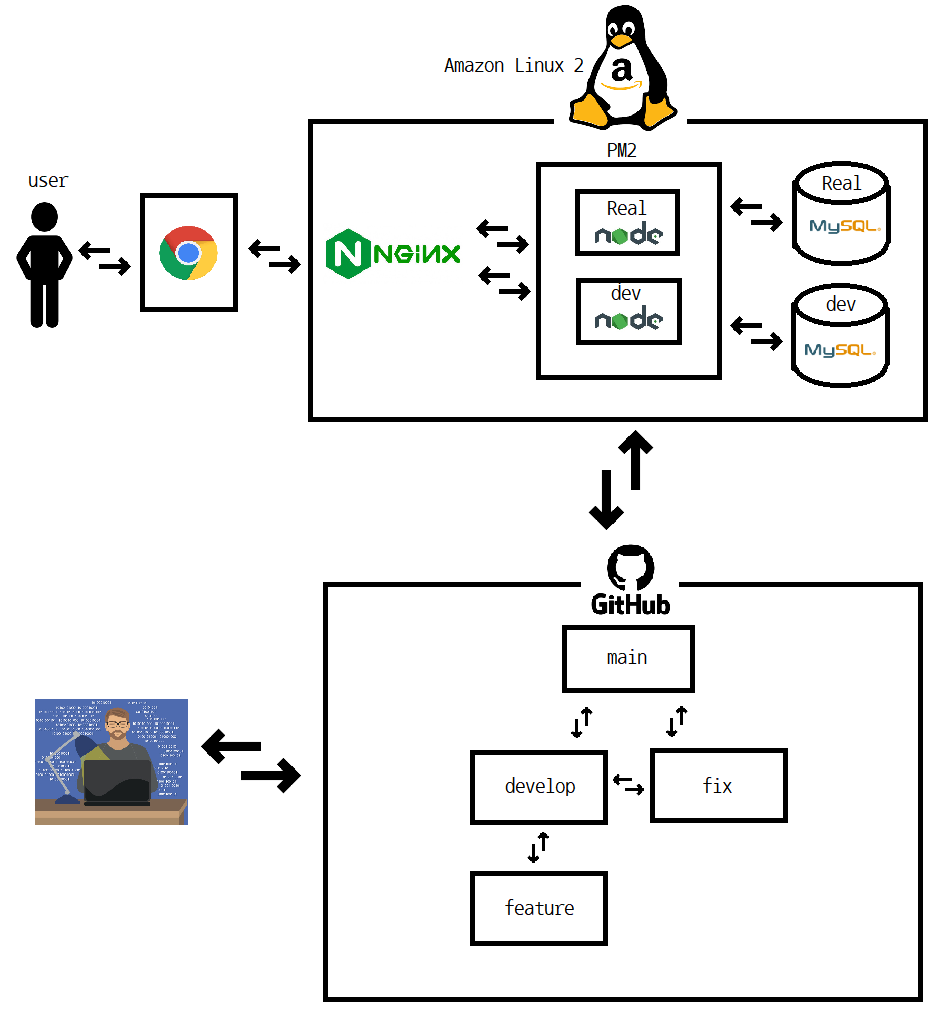
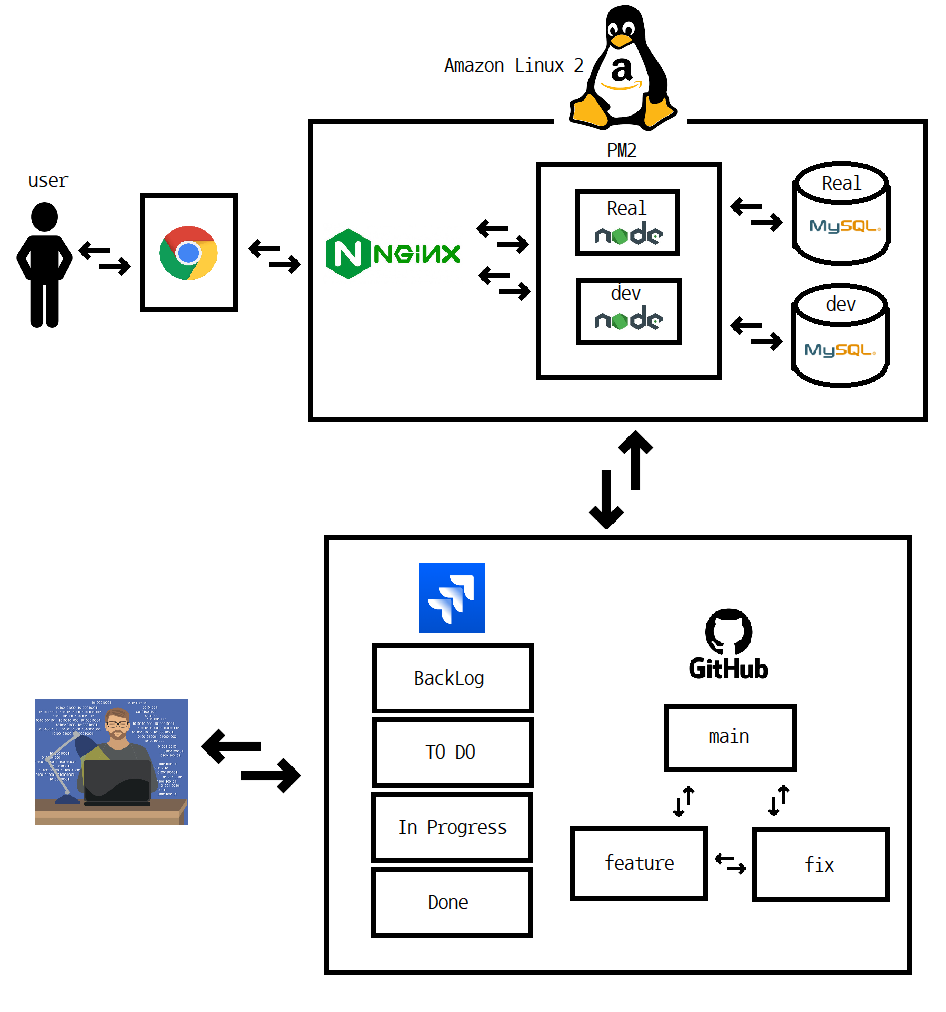
SM-14 Jira와 Github 연동
v2.5.5(23.02.02)

프로젝트를 관리하면서 이슈관리에 어려움을 느낌.

이에 Jira를 도입하여 이슈관리를 하려고 함.

이 프로젝트를 관리하는 도구는 다음과 같음

1. 이슈관리: Jira
2. 버전관리: GitHub Releases
3. 문서화: README.md

Changed region(s): [[0.3372, 0.5208, 0.981, 1.0], [0.8584, 0.8577, 0.889, 0.8883]]

diff --git a/README.md b/README.md
@@ -90,6 +90,9 @@
     - AWS Lightsail
     - AWS Route53
     - Nginx
+
+- Project Manegement
+    - Jira
     - GitHub
 
 ## 프로젝트 구조
@@ -168,7 +171,7 @@ src // 백엔드 소스코드 작성
 
 22.09.06: 기존 EC2에서 Lightsail로 변경하였습니다. 변경의 가장 큰 이유는 감당할 수 없는 요금 때문이였습니다. 또한 OS도 우분투에서 아마존 리눅스로 변경하였습니다. AWS에서는 아마존 리눅스를 사용하는 것이 유지보수에 도움이 된다는 조언을 들었기 때문입니다.
 
-22.09.28: v2.0.0으로 변경하였습니다. 기존의 소스코드는 너무 유지보수가 어려워서 아예 버전을 올려서 유지보수를 진행하게 되었습니다. 클린 아키텍처와 클린 코드에 대해서 생각하게 되었고, 좋은 구조란 사용자의 요구사항에 따라 유연하게 변경될 수 있는 구조라고 생각했습니다. 계속해서 유지보수를 열심히 해야겠습니다.
+22.09.28: v2.0.0으로 변경하였습니다. 기존의 소스코드는 너무 유지보수가 어려워서 아예 버전을 올려서 유지보수를 진행하게 되었습니다. 클린 아키텍처와 클린 코드에 대해서 생각하게 되었고, 좋은 구조란 사용자의 요구사항에 따라 유연하게 변경될 수 있는 구조라고 생각했습니다. 계속해서 유지보수를 열심히 해야겠습니다. [버전 관리 규칙에 대해서...](https://dc-choi.tistory.com/62)
 
 22.09.29: 출석부가 재대로 입력이 되지 않는 버그가 발생했습니다. 또한 413 에러를 만났는데, 요청의 기본 설정을 변경해도 그대로 에러가 나는 것을 확인했습니다. 확인해본 결과 jQuery AJAX의 기본 content-type이 x-www-form-urlencoded로 전송하는 것을 확인하였습니다. Axios의 기본 content-type이 application/json인 것을 생각하면, 생각지도 못한 오류를 만났던 거 같습니다. REST API를 사용하는 경우에는 application/json로만 데이터를 주게 받게 되는데, 이 부분을 한번 더 상기할 수 있었고, HTTP에 대해서 다시 한번 공부를 해야겠다고 결심했습니다.
 
@@ -194,21 +197,4 @@ src // 백엔드 소스코드 작성
 
 23.01.17 : 그동안 사용하던 무료 도메인을 쓰지않고 Route53를 사용하여 도메인을 구입 후, 도메인을 설정하였습니다. 도메인 관리를 편하게 하고싶었고 기존의 무료 도메인의 보안을 믿을 수 없었습니다.
 
-23.02.02 : 타입스크립트의 절대경로를 설정하여, 모듈을 불러올 때 가독성을 높였습니다. 다른곳에서 모듈을 불러올 때 복잡한 상대경로를 사용하지 않고 절대 경로를 설정하니 더 편하게 불러올 수 있었습니다.
-
-## 향후 패치방향
-[버전 관리 규칙에 대해서...](https://dc-choi.tistory.com/62)
-
-### 기능 추가
-1. 아직 통계 페이지가 완성되지않았습니다. 최대한 빠른 시일내에 완성할 예정입니다.
-2. 아이들에 대한 상세정보를 적을 수 없습니다. 이에 따른 상세 정보 추가, 수정, 삭제하는 기능을 추가 할 예정입니다. (UI도 같이 변경이 필요합니다.)
-3. 초등부, 중고등부의 졸업식의 일정이 정확하지 않습니다. 초등부의 경우, 모든 아이들이 자동으로 학년도 올라가도록 설정 할 것이고, 졸업하는 친구들은 중고등부로 올라올때 초등부의 그룹에서 자동으로 해제되고 중고등부의 예비 중1로 배치될 것입니다. 중고등부에서 성인이 되는 경우는 성인 그룹에 따로 매핑시킬 예정입니다. (관리자의 추가가 필요합니다.)
-4. 출석부 입력시 아이들이 몇살인지 확인할 수 없어서 아이들의 나이를 추가해야 합니다.
-5. 출석부 입력시 테이블에 이번주 몇명 출석했는지에 대한 정보가 필요합니다.
-6. 출석 입력을 select로 변경해야 합니다. 피드백을 주셨습니다. (select시 테이블이 깨지는 문제 해결하기)
-7. 축일을 저장하도록 수정해야 합니다. 축일을 저장할 수 있도록 해달라는 초등부의 요청을 받았습니다. (DB구조 변경이 필요합니다.)
-
-### 구조 및 성능 개선
-1. FrontEnd를 그냥 HTML, CSS, JS로만 관리하는 것이 아닌, React.js를 적용해야 할 거 같습니다.
-2. jenkins를 도입해서 CI/CD를 해야할 거 같습니다. 현재는 test와 deploy를 전부 수동으로 하고 있습니다. 이 부분의 도입을 조금 더 생각해봐야 할 거 같습니다.
-3. 출석을 입력하는 부분이 테스트하기 좋은 코드로 작성되지 않았습니다. 이에 전체적으로 효율적이지 않은 로직을 가지고 있습니다. 이 부분이 개선이 필요합니다. 개선 후 다시 테스트코드를 작성해야 합니다.
+23.02.02 : 타입스크립트의 절대경로를 설정하여, 모듈을 불러올 때 가독성을 높였습니다. 다른곳에서 모듈을 불러올 때 복잡한 상대경로를 사용하지 않고 절대 경로를 설정하니 더 편하게 불러올 수 있었습니다. 그리고 그동안 프로젝트를 진행하면서 이슈관리가 너무 힘들었습니다. Jira를 도입하여 이슈를 관리하고, 버전관리는 GitHub Releases를 사용하며, 문서화는 README.md에 할 계획입니다.
